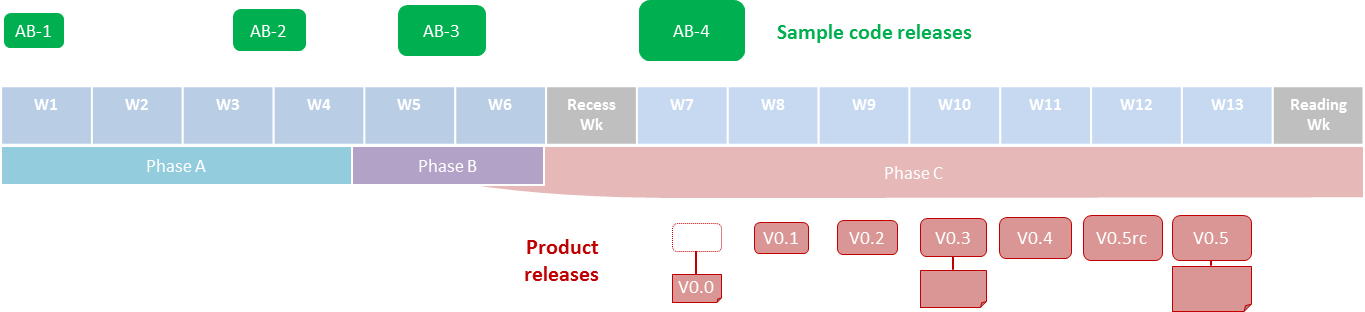
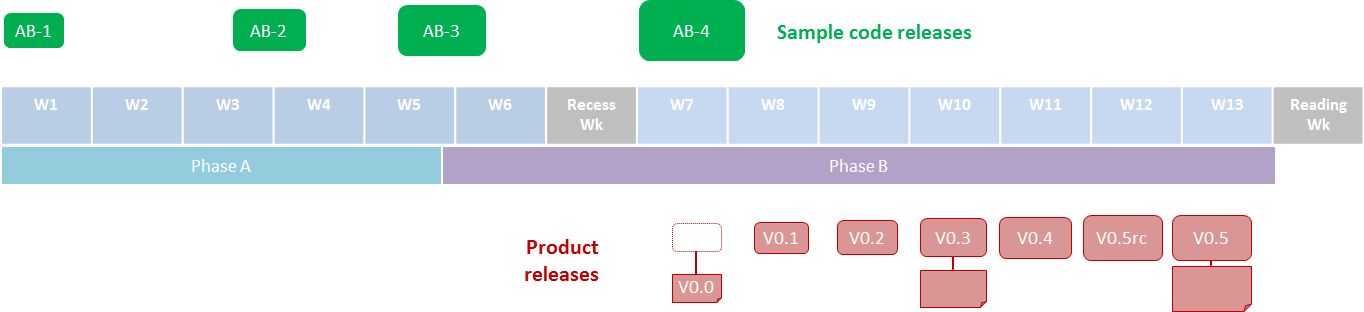
Update project scope

diff --git a/contents/handbook-project-deliverables.html b/contents/handbook-project-deliverables.html
@@ -2,8 +2,8 @@
 {Click on the image to enlarge}
 <p>To expedite your project implementation, you will be given some sample code (AddressBook-Level1 to AddressBook-Level4,
    shown as <code>AB-1</code> to <code>AB-4</code> in the diagram above)
-  that you can use as the basis for improving your individual skills during Phases A, B and as the basis for your project
-  in Phase C.</p>
+  that you can use as the basis for improving your individual skills during Phases A and as the basis for your project
+  in Phase B.</p>
 <p>
   The sub-sections further down explain each project deliverable in detail.
 </p>
